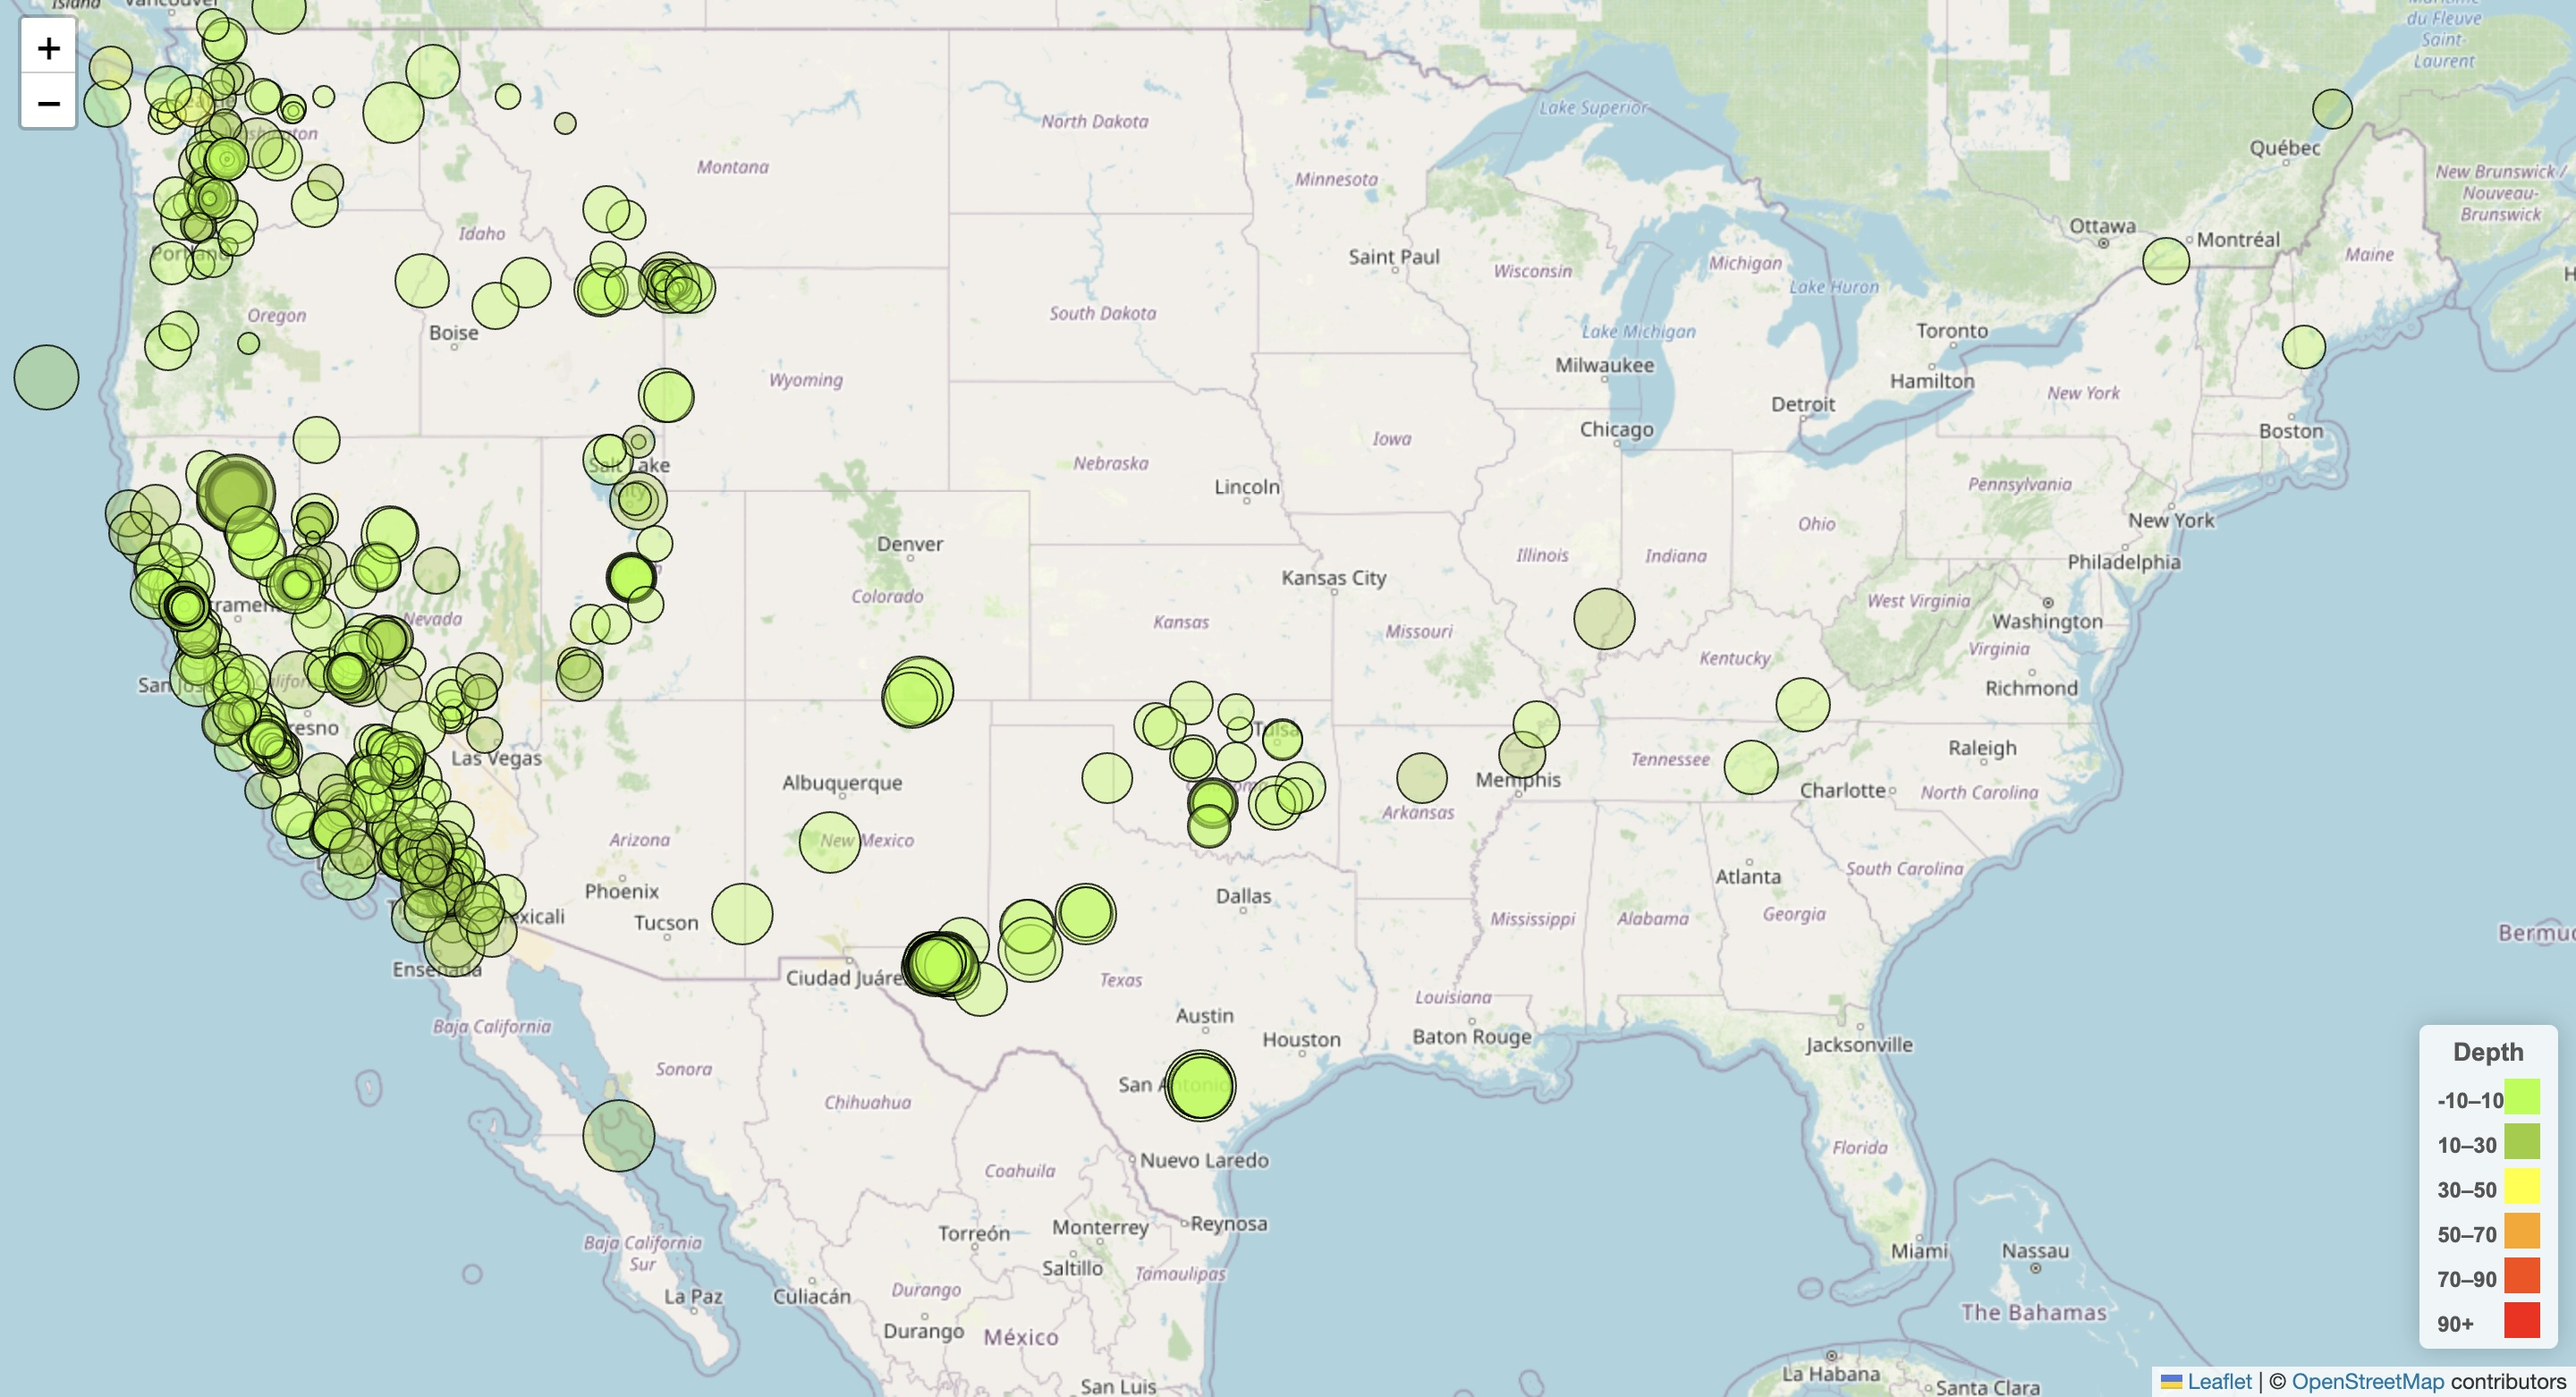
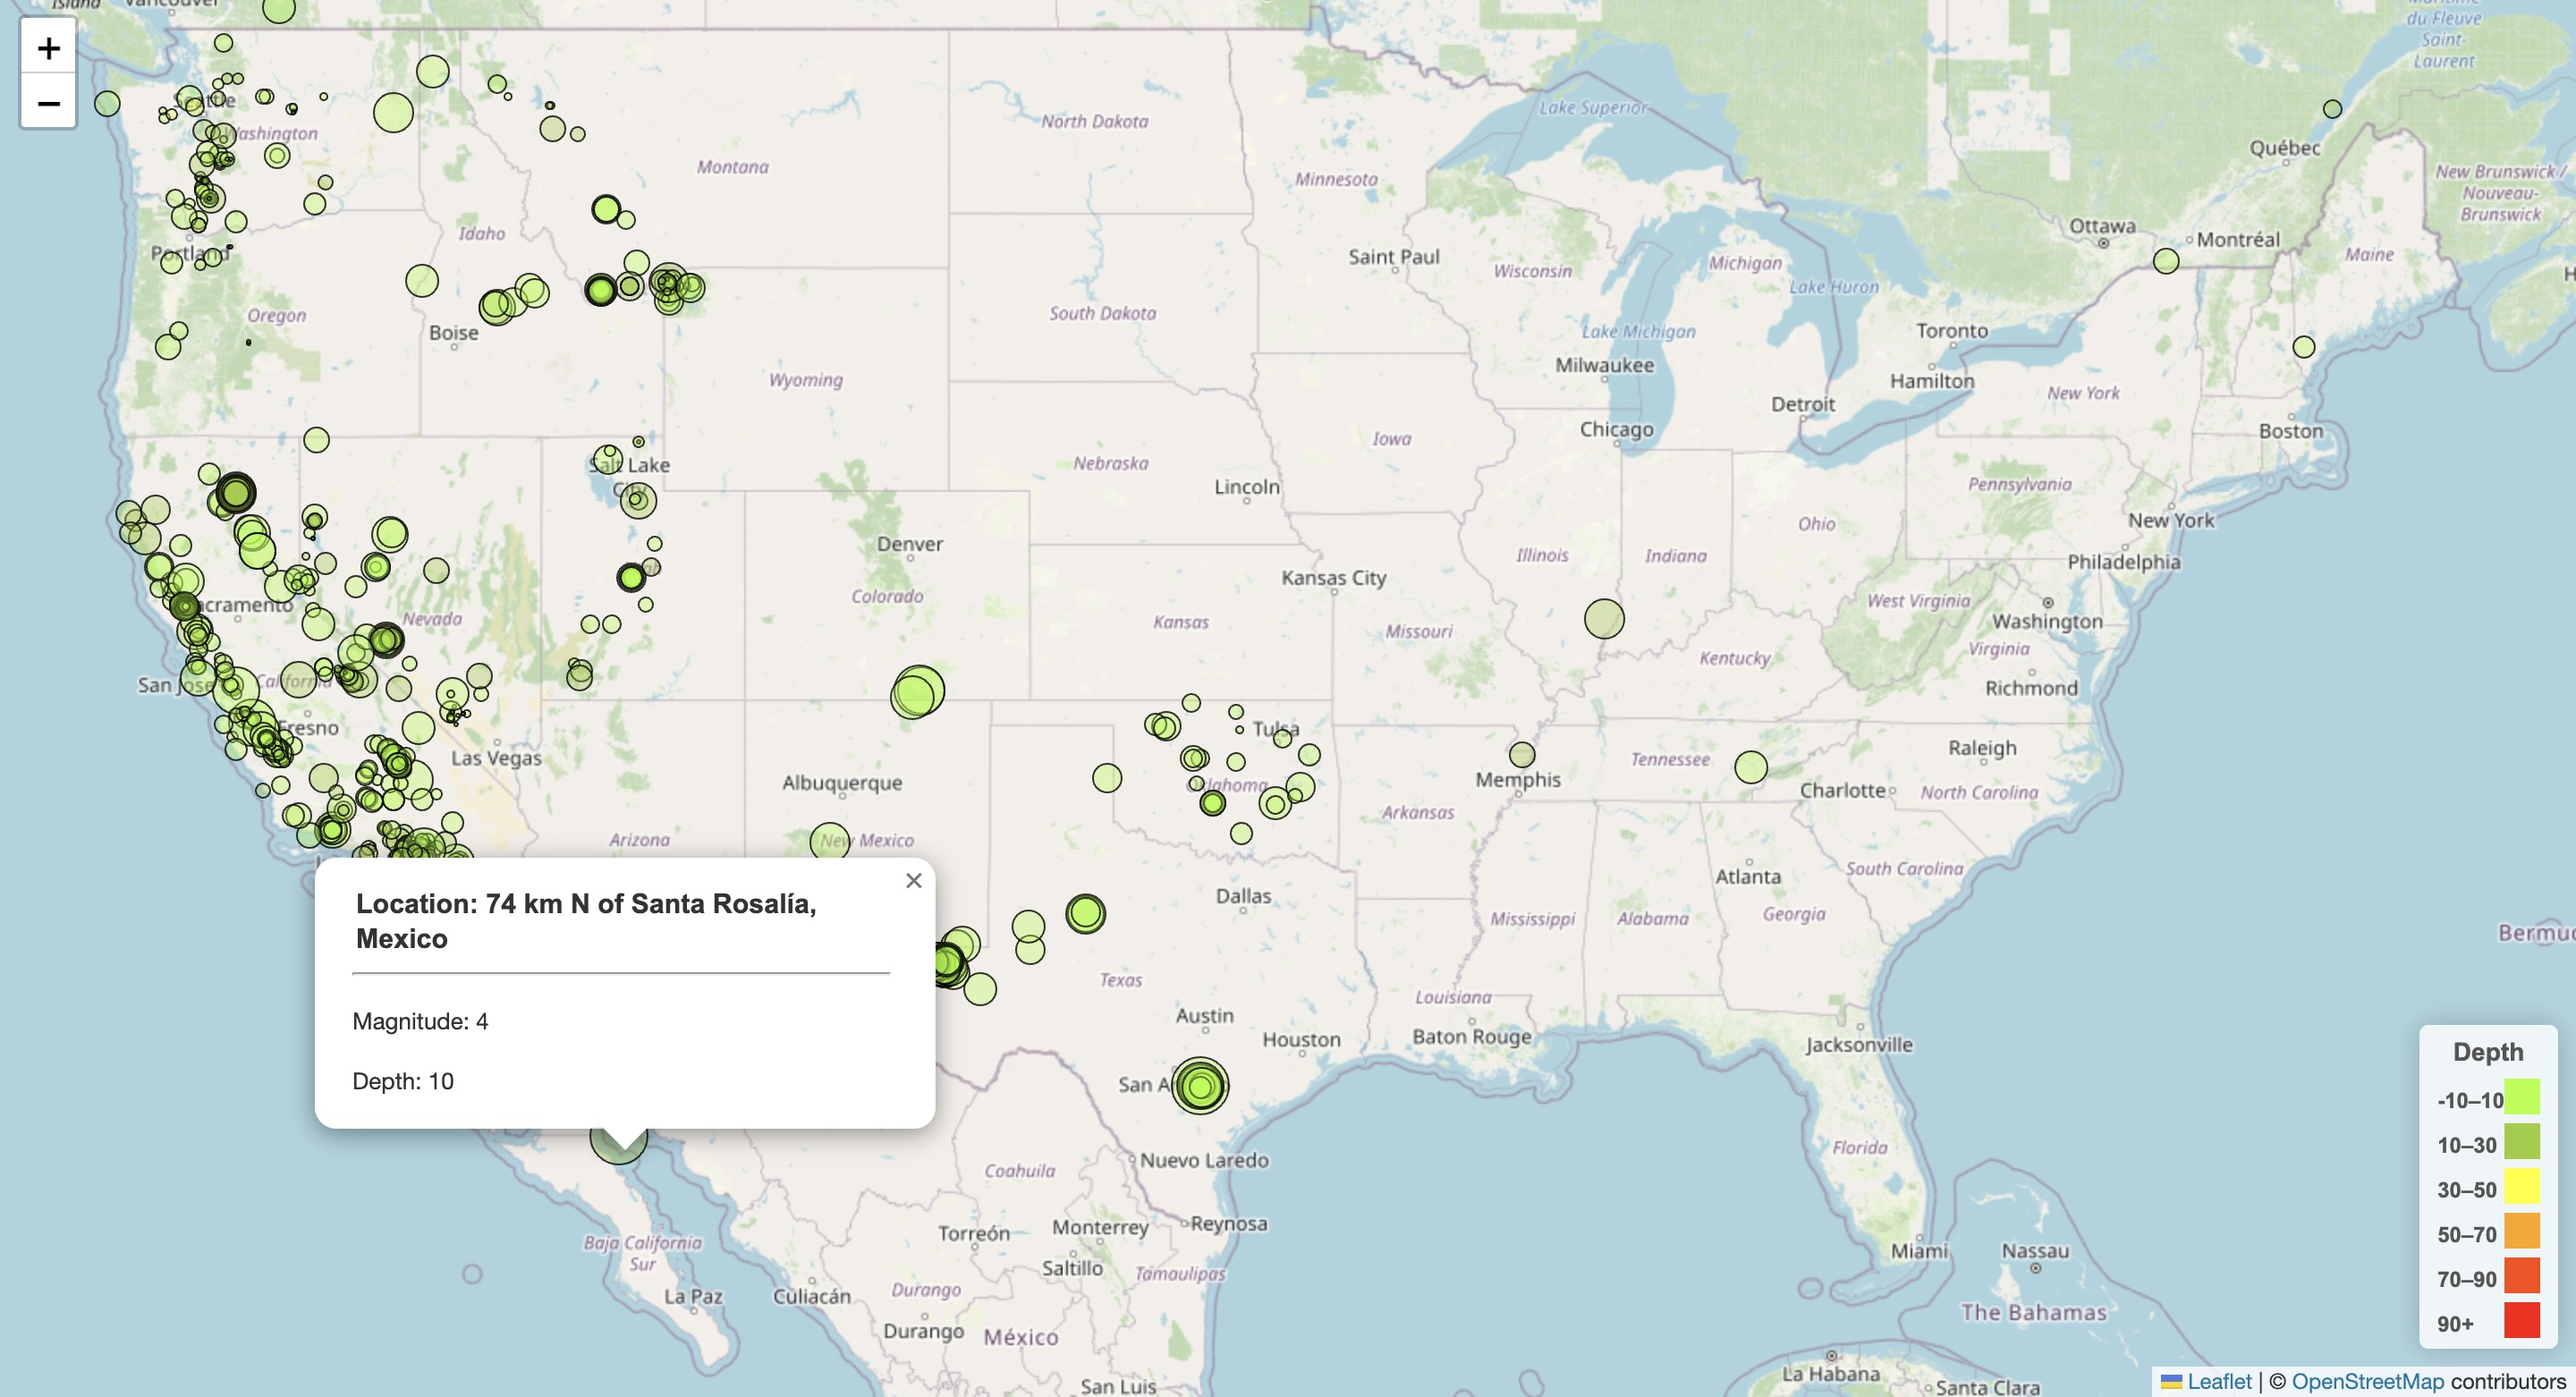
final code

diff --git a/static/js/Leaflet-Part-1/logic.js b/static/js/Leaflet-Part-1/logic.js
@@ -13,7 +13,11 @@ d3.json(URL).then(function(data){
 
 // Define a markerSize function that will give each earthquake a different radius based on its magnitude
 function markerSize(magnitude) {
-  return Math.sqrt(magnitude) * 10;
+    if (magnitude === 0) {
+      return 1;
+    }
+  
+    return magnitude * 4;
 };
 
 // Define a chooseColor function that will give each earthquake a different color based on its depth
@@ -29,9 +33,10 @@ function chooseColor(depth){
 // Create a createFeatures function
 function createFeatures(earthquakeData) {
 
-    // This is called on each feature, giving each feature a popup with information on each earthquake
+    //  Binding a popup to each layer
     function onEachFeature(feature, layer) {
-    layer.bindPopup(`<h3>Location: ${feature.properties.place}</h3><hr><p>Date: ${new Date(feature.properties.time)}</p><p>Magnitude: ${feature.properties.mag}</p><p>Depth: ${feature.geometry.coordinates[2]}</p>`);
+    //layer.bindPopup(`<h3>Location: ${feature.properties.place}</h3><hr><p>Date: ${new Date(feature.properties.time)}</p><p>Magnitude: ${feature.properties.mag}</p><p>Depth: ${feature.geometry.coordinates[2]}</p>`);
+    layer.bindPopup(`<h3>Location: ${feature.properties.place}</h3><hr><p>Magnitude: ${feature.properties.mag}</p><p>Depth: ${feature.geometry.coordinates[2]}</p>`);
     };
 
     // Create a createCircleMarker function 
@@ -73,7 +78,7 @@ function createMap(earthquakes) {
         layers: [grayscale, earthquakes]
     });
 
-    // Add legend
+    // Add a legend to display information about our map
     var legend = L.control({position: "bottomright"});
     legend.onAdd = function() {
         var div = L.DomUtil.create("div", "info legend"),
